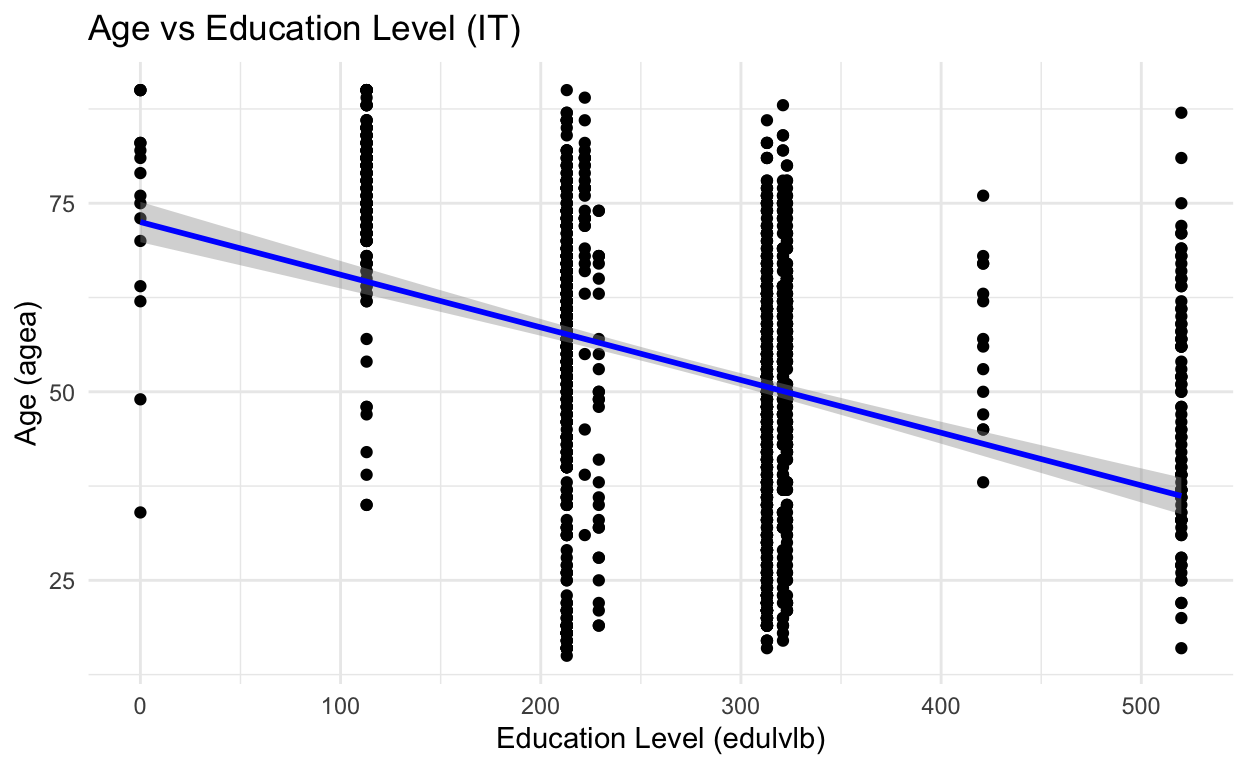
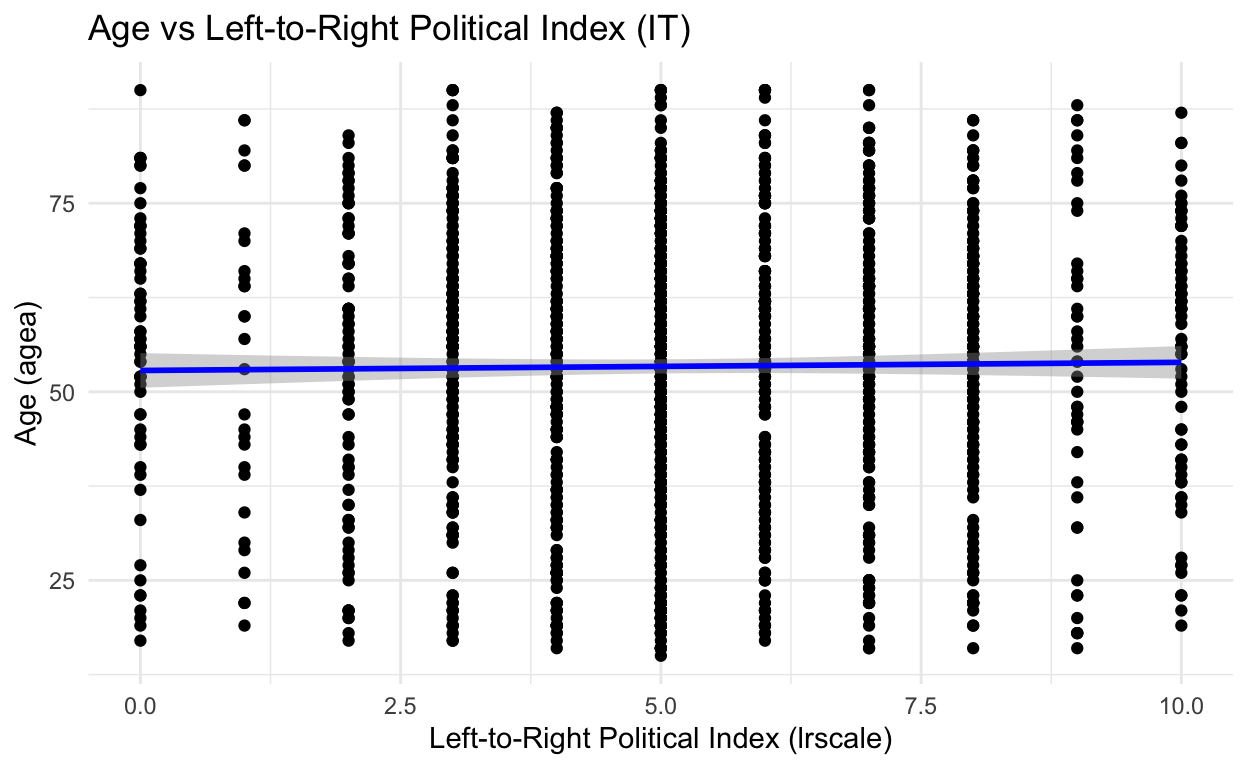
Added Plot for LRSCALE

diff --git a/index.html b/index.html
@@ -115,7 +115,7 @@ code span.wa { color: #5e5e5e; font-style: italic; } /* Warning */
   <!--/radix_placeholder_rmarkdown_metadata-->
   
   <script type="text/json" id="radix-resource-manifest">
-  {"type":"character","attributes":{},"value":["index_files/anchor-4.2.2/anchor.min.js","index_files/bowser-1.9.3/bowser.min.js","index_files/distill-2.2.21/template.v2.js","index_files/ESS10.csv","index_files/figure-html5/unnamed-chunk-1-1.png","index_files/figure-html5/unnamed-chunk-13-1.png","index_files/figure-html5/unnamed-chunk-13-2.png","index_files/figure-html5/unnamed-chunk-15-1.png","index_files/figure-html5/unnamed-chunk-15-2.png","index_files/figure-html5/unnamed-chunk-2-1.png","index_files/figure-html5/unnamed-chunk-3-1.png","index_files/figure-html5/unnamed-chunk-4-1.png","index_files/figure-html5/unnamed-chunk-9-1.png","index_files/header-attrs-2.17/header-attrs.js","index_files/header-attrs-2.24/header-attrs.js","index_files/jquery-3.6.0/jquery-3.6.0.js","index_files/jquery-3.6.0/jquery-3.6.0.min.js","index_files/jquery-3.6.0/jquery-3.6.0.min.map","index_files/kePrint-0.0.1/kePrint.js","index_files/lightable-0.0.1/lightable.css","index_files/popper-2.6.0/popper.min.js","index_files/tippy-6.2.7/tippy-bundle.umd.min.js","index_files/tippy-6.2.7/tippy-light-border.css","index_files/tippy-6.2.7/tippy.css","index_files/tippy-6.2.7/tippy.umd.min.js","index_files/webcomponents-2.0.0/webcomponents.js"]}
+  {"type":"character","attributes":{},"value":["index_files/anchor-4.2.2/anchor.min.js","index_files/bowser-1.9.3/bowser.min.js","index_files/distill-2.2.21/template.v2.js","index_files/ESS10.csv","index_files/figure-html5/unnamed-chunk-1-1.png","index_files/figure-html5/unnamed-chunk-13-1.png","index_files/figure-html5/unnamed-chunk-13-2.png","index_files/figure-html5/unnamed-chunk-13-3.png","index_files/figure-html5/unnamed-chunk-15-1.png","index_files/figure-html5/unnamed-chunk-15-2.png","index_files/figure-html5/unnamed-chunk-15-3.png","index_files/figure-html5/unnamed-chunk-2-1.png","index_files/figure-html5/unnamed-chunk-3-1.png","index_files/figure-html5/unnamed-chunk-4-1.png","index_files/figure-html5/unnamed-chunk-9-1.png","index_files/header-attrs-2.17/header-attrs.js","index_files/header-attrs-2.24/header-attrs.js","index_files/jquery-3.6.0/jquery-3.6.0.js","index_files/jquery-3.6.0/jquery-3.6.0.min.js","index_files/jquery-3.6.0/jquery-3.6.0.min.map","index_files/kePrint-0.0.1/kePrint.js","index_files/lightable-0.0.1/lightable.css","index_files/popper-2.6.0/popper.min.js","index_files/tippy-6.2.7/tippy-bundle.umd.min.js","index_files/tippy-6.2.7/tippy-light-border.css","index_files/tippy-6.2.7/tippy.css","index_files/tippy-6.2.7/tippy.umd.min.js","index_files/webcomponents-2.0.0/webcomponents.js"]}
   </script>
   <!--radix_placeholder_navigation_in_header-->
   <!--/radix_placeholder_navigation_in_header-->
@@ -2050,6 +2050,17 @@ Plotting the regression for Italy
 </h3>
 <div class="layout-chunk" data-layout="l-body">
 <div class="sourceCode">
+<pre class="sourceCode r"><code class="sourceCode r"><span><span class='co'># Plotting agea vs lrscale with a regression line</span></span>
+<span><span class='fu'><a href='https://ggplot2.tidyverse.org/reference/ggplot.html'>ggplot</a></span><span class='op'>(</span><span class='va'>data_italy_multiple</span>, <span class='fu'><a href='https://ggplot2.tidyverse.org/reference/aes.html'>aes</a></span><span class='op'>(</span>x <span class='op'>=</span> <span class='va'>lrscale</span>, y <span class='op'>=</span> <span class='va'>agea</span><span class='op'>)</span><span class='op'>)</span> <span class='op'>+</span></span>
+<span>  <span class='fu'><a href='https://ggplot2.tidyverse.org/reference/geom_point.html'>geom_point</a></span><span class='op'>(</span><span class='op'>)</span> <span class='op'>+</span></span>
+<span>  <span class='fu'><a href='https://ggplot2.tidyverse.org/reference/geom_smooth.html'>geom_smooth</a></span><span class='op'>(</span>method <span class='op'>=</span> <span class='st'>"lm"</span>, formula <span class='op'>=</span> <span class='va'>y</span> <span class='op'>~</span> <span class='va'>x</span>, color <span class='op'>=</span> <span class='st'>"blue"</span><span class='op'>)</span> <span class='op'>+</span></span>
+<span>  <span class='fu'><a href='https://ggplot2.tidyverse.org/reference/labs.html'>labs</a></span><span class='op'>(</span>title <span class='op'>=</span> <span class='st'>"Age vs Left-to-Right Political Index (IT)"</span>,</span>
+<span>       x <span class='op'>=</span> <span class='st'>"Left-to-Right Political Index (lrscale)"</span>,</span>
+<span>       y <span class='op'>=</span> <span class='st'>"Age (agea)"</span><span class='op'>)</span> <span class='op'>+</span></span>
+<span>  <span class='fu'><a href='https://ggplot2.tidyverse.org/reference/ggtheme.html'>theme_minimal</a></span><span class='op'>(</span><span class='op'>)</span></span></code></pre>
+</div>
+<img src="index_files/figure-html5/unnamed-chunk-13-1.png" width="624" />
+<div class="sourceCode">
 <pre class="sourceCode r"><code class="sourceCode r"><span><span class='co'># Plotting agea vs edulvlb with a regression line</span></span>
 <span><span class='fu'><a href='https://ggplot2.tidyverse.org/reference/ggplot.html'>ggplot</a></span><span class='op'>(</span><span class='va'>data_italy_multiple</span>, <span class='fu'><a href='https://ggplot2.tidyverse.org/reference/aes.html'>aes</a></span><span class='op'>(</span>x <span class='op'>=</span> <span class='va'>edulvlb</span>, y <span class='op'>=</span> <span class='va'>agea</span><span class='op'>)</span><span class='op'>)</span> <span class='op'>+</span></span>
 <span>  <span class='fu'><a href='https://ggplot2.tidyverse.org/reference/geom_point.html'>geom_point</a></span><span class='op'>(</span><span class='op'>)</span> <span class='op'>+</span></span>
@@ -2059,7 +2070,7 @@ Plotting the regression for Italy
 <span>       y <span class='op'>=</span> <span class='st'>"Age (agea)"</span><span class='op'>)</span> <span class='op'>+</span></span>
 <span>  <span class='fu'><a href='https://ggplot2.tidyverse.org/reference/ggtheme.html'>theme_minimal</a></span><span class='op'>(</span><span class='op'>)</span></span></code></pre>
 </div>
-<img src="index_files/figure-html5/unnamed-chunk-13-1.png" width="624" />
+<img src="index_files/figure-html5/unnamed-chunk-13-2.png" width="624" />
 <div class="sourceCode">
 <pre class="sourceCode r"><code class="sourceCode r"><span><span class='co'># Plotting agea vs hhmmb with a regression line</span></span>
 <span><span class='fu'><a href='https://ggplot2.tidyverse.org/reference/ggplot.html'>ggplot</a></span><span class='op'>(</span><span class='va'>data_italy_multiple</span>, <span class='fu'><a href='https://ggplot2.tidyverse.org/reference/aes.html'>aes</a></span><span class='op'>(</span>x <span class='op'>=</span> <span class='va'>hhmmb</span>, y <span class='op'>=</span> <span class='va'>agea</span><span class='op'>)</span><span class='op'>)</span> <span class='op'>+</span></span>
@@ -2070,7 +2081,7 @@ Plotting the regression for Italy
 <span>       y <span class='op'>=</span> <span class='st'>"Age (agea)"</span><span class='op'>)</span> <span class='op'>+</span></span>
 <span>  <span class='fu'><a href='https://ggplot2.tidyverse.org/reference/ggtheme.html'>theme_minimal</a></span><span class='op'>(</span><span class='op'>)</span></span></code></pre>
 </div>
-<p><img src="index_files/figure-html5/unnamed-chunk-13-2.png" width="624" /></p>
+<p><img src="index_files/figure-html5/unnamed-chunk-13-3.png" width="624" /></p>
 </div>
 <h3>
 Interpretation of the Multiple Linear Regressions, for Italy
@@ -2231,6 +2242,17 @@ Plotting the regression for the UK
 </h3>
 <div class="layout-chunk" data-layout="l-body">
 <div class="sourceCode">
+<pre class="sourceCode r"><code class="sourceCode r"><span><span class='co'># Plotting agea vs lrscale with a regression line</span></span>
+<span><span class='fu'><a href='https://ggplot2.tidyverse.org/reference/ggplot.html'>ggplot</a></span><span class='op'>(</span><span class='va'>data_uk_multiple</span>, <span class='fu'><a href='https://ggplot2.tidyverse.org/reference/aes.html'>aes</a></span><span class='op'>(</span>x <span class='op'>=</span> <span class='va'>lrscale</span>, y <span class='op'>=</span> <span class='va'>agea</span><span class='op'>)</span><span class='op'>)</span> <span class='op'>+</span></span>
+<span>  <span class='fu'><a href='https://ggplot2.tidyverse.org/reference/geom_point.html'>geom_point</a></span><span class='op'>(</span><span class='op'>)</span> <span class='op'>+</span></span>
+<span>  <span class='fu'><a href='https://ggplot2.tidyverse.org/reference/geom_smooth.html'>geom_smooth</a></span><span class='op'>(</span>method <span class='op'>=</span> <span class='st'>"lm"</span>, formula <span class='op'>=</span> <span class='va'>y</span> <span class='op'>~</span> <span class='va'>x</span>, color <span class='op'>=</span> <span class='st'>"blue"</span><span class='op'>)</span> <span class='op'>+</span></span>
+<span>  <span class='fu'><a href='https://ggplot2.tidyverse.org/reference/labs.html'>labs</a></span><span class='op'>(</span>title <span class='op'>=</span> <span class='st'>"Age vs Left-to-Right Political Index (UK)"</span>,</span>
+<span>       x <span class='op'>=</span> <span class='st'>"Left-to-Right Political Index (lrscale)"</span>,</span>
+<span>       y <span class='op'>=</span> <span class='st'>"Age (agea)"</span><span class='op'>)</span> <span class='op'>+</span></span>
+<span>  <span class='fu'><a href='https://ggplot2.tidyverse.org/reference/ggtheme.html'>theme_minimal</a></span><span class='op'>(</span><span class='op'>)</span></span></code></pre>
+</div>
+<img src="index_files/figure-html5/unnamed-chunk-15-1.png" width="624" />
+<div class="sourceCode">
 <pre class="sourceCode r"><code class="sourceCode r"><span><span class='co'># Plotting agea vs edulvlb with a regression line</span></span>
 <span><span class='fu'><a href='https://ggplot2.tidyverse.org/reference/ggplot.html'>ggplot</a></span><span class='op'>(</span><span class='va'>data_uk_multiple</span>, <span class='fu'><a href='https://ggplot2.tidyverse.org/reference/aes.html'>aes</a></span><span class='op'>(</span>x <span class='op'>=</span> <span class='va'>edulvlb</span>, y <span class='op'>=</span> <span class='va'>agea</span><span class='op'>)</span><span class='op'>)</span> <span class='op'>+</span></span>
 <span>  <span class='fu'><a href='https://ggplot2.tidyverse.org/reference/geom_point.html'>geom_point</a></span><span class='op'>(</span><span class='op'>)</span> <span class='op'>+</span></span>
@@ -2240,7 +2262,7 @@ Plotting the regression for the UK
 <span>       y <span class='op'>=</span> <span class='st'>"Age (agea)"</span><span class='op'>)</span> <span class='op'>+</span></span>
 <span>  <span class='fu'><a href='https://ggplot2.tidyverse.org/reference/ggtheme.html'>theme_minimal</a></span><span class='op'>(</span><span class='op'>)</span></span></code></pre>
 </div>
-<img src="index_files/figure-html5/unnamed-chunk-15-1.png" width="624" />
+<img src="index_files/figure-html5/unnamed-chunk-15-2.png" width="624" />
 <div class="sourceCode">
 <pre class="sourceCode r"><code class="sourceCode r"><span><span class='co'># Plotting agea vs hhmmb with a regression line</span></span>
 <span><span class='fu'><a href='https://ggplot2.tidyverse.org/reference/ggplot.html'>ggplot</a></span><span class='op'>(</span><span class='va'>data_uk_multiple</span>, <span class='fu'><a href='https://ggplot2.tidyverse.org/reference/aes.html'>aes</a></span><span class='op'>(</span>x <span class='op'>=</span> <span class='va'>hhmmb</span>, y <span class='op'>=</span> <span class='va'>agea</span><span class='op'>)</span><span class='op'>)</span> <span class='op'>+</span></span>
@@ -2251,7 +2273,7 @@ Plotting the regression for the UK
 <span>       y <span class='op'>=</span> <span class='st'>"Age (agea)"</span><span class='op'>)</span> <span class='op'>+</span></span>
 <span>  <span class='fu'><a href='https://ggplot2.tidyverse.org/reference/ggtheme.html'>theme_minimal</a></span><span class='op'>(</span><span class='op'>)</span></span></code></pre>
 </div>
-<p><img src="index_files/figure-html5/unnamed-chunk-15-2.png" width="624" /></p>
+<p><img src="index_files/figure-html5/unnamed-chunk-15-3.png" width="624" /></p>
 </div>
 <h3>
 Interpretation of the Multiple Linear Regressions, for the United Kingdom
